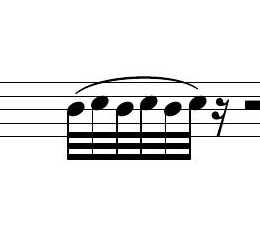
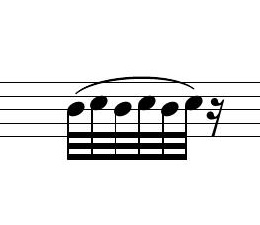
Card 3

diff --git a/abjad/make_card.py b/abjad/make_card.py
@@ -27,6 +27,13 @@ preamble = r"""#(set-global-staff-size 19.5)
 }"""
 
 
+def blank_space():
+    blank = abjad.Note("B4", (1, 4))
+    abjad.override(blank).NoteHead.transparent = "##t"
+    abjad.override(blank).Stem.stencil = "##f"
+    return blank
+
+
 def slur_all(notes):
     abjad.attach(abjad.StartSlur(), notes[0])
     abjad.attach(abjad.StopSlur(), notes[-1])
@@ -49,12 +56,17 @@ def card_2():
     # this card needs to be spaced more!
     trill = []
     for _ in range(3):
-        trill . extend([abjad.Note("B4", (1, 32)), abjad.Note("C5", (1, 32))])
-    notes = slur_all(trill) + [abjad.Rest('r16')]
+        trill.extend([abjad.Note("B4", (1, 32)), abjad.Note("C5", (1, 32))])
+    notes = slur_all(trill) + [abjad.Rest('r16')] + [blank_space()]
     return notes
 
 
-card_funcs = (card_0, card_1, card_2)
+def card_3():
+    notes = [abjad.Note("C5", (1, 8)), abjad.Rest('r16'), abjad.Note("G4", (1, 8)), abjad.Rest('r16'), blank_space()]
+    return notes
+
+
+card_funcs = (card_0, card_1, card_2, card_3)
 
 i = 0
 

diff --git a/gui.py b/gui.py
@@ -42,7 +42,7 @@ RED = (255, 58, 58)
 SCALING = 1280/2339
 
 if args.debug:
-    client = SimpleNamespace(hand=[0, 1, 2, 3])
+    client = SimpleNamespace(hand=[4, 1, 2, 3])
 else:
     username = retrieve_username()
     client = Client(username)
